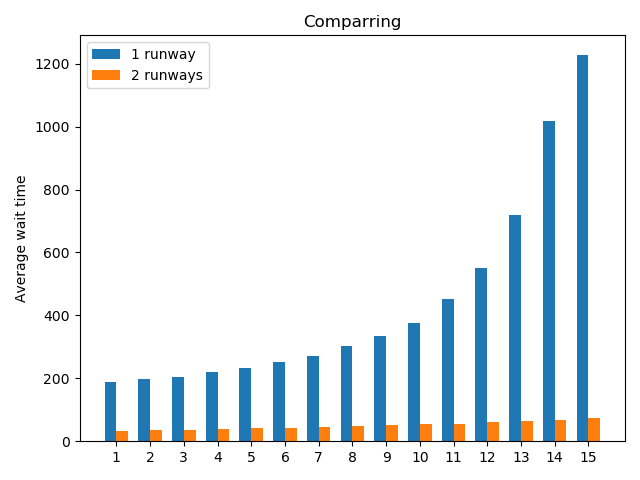
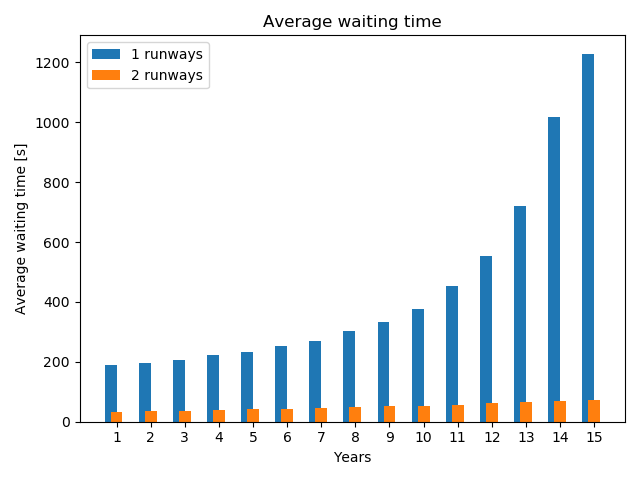
Updated project

diff --git a/incl/app/programs.tex b/incl/app/programs.tex
@@ -1,0 +1,298 @@
+\chapter{Programmer}
+I dette appendiks er alle prgrammer der er blevet nævt i rapporten indsat som kildekode.
+Deres funktionanlitet er beskrevet kort i starten af hver afsnit.
+
+\section{arrival\_times.py}
+Dette program udregner summen af alle ankomsttider mellem flyene for en tilfædig dag det første år, ved at gøre brug af de givne data.
+
+\begin{lstlisting}[language=Python, caption={arrival\_times.py}]
+import random
+# The given data
+inter_arrival_time_num = [44, 34, 27, 22, 16, 13, 10, 8, 6, 5, 4, 3, 2, 2, 1, 1, 1, 0, 1, 0]
+
+# For each time interval, generate the inter-arrival time number amount of inter-arrival times in this interval
+inter_arrival_time = []
+for index, time in enumerate(range(0, 1200, 60)):
+    for i in range(inter_arrival_time_num[index]):
+        inter_arrival_time.append(random.randint(time, time + 59))
+# Print results - the number of airplanes (which is the length of inter_arrival_times, and the sum of inter-arrival times in hours
+print(f"Numnber of airplanes: {len(inter_arrival_time)}")
+print(f"Hours in total: {round(sum(inter_arrival_time) / 3600.0, 2)}")
+\end{lstlisting}
+
+\section{arrival\_times\_mean.py}
+Dette program gentager funktionaliteten fra \code{arrival\_times.py} mange gange, og printer gennemsnittet.
+
+\begin{lstlisting}[language=Python, caption={arrival\_times\_mean.py}]
+import random
+repetitions = 1000
+
+# From arrival_times.py:
+def arrival_times():
+    inter_arrival_time_num = [44, 34, 27, 22, 16, 13, 10, 8, 6, 5, 4, 3, 2, 2, 1, 1, 1, 0, 1, 0]
+    inter_arrival_time = []
+    for index, time in enumerate(range(0, 1199, 60)):
+        for i in range(inter_arrival_time_num[index]):
+            inter_arrival_time.append(random.randint(time, time + 59))
+    return sum(inter_arrival_time)
+
+# Calculate the mean after repeating the program many times
+mean = 0
+for r in range(repetitions):
+    mean += arrival_times()
+mean /= float(repetitions)
+# Print the mean
+print(f"Average hours in total: {round(mean / 3600.0, 3)}")
+\end{lstlisting}
+
+\section{plot\_inter\_arrival\_time\_model.py}
+Dette program gentager mange gange at bruge modellen at generere ankomsttider, udregne "inter-arrival times" og optælle hyppigheden i de givne intervaller, og tager da gennemsnittet af hyppighederne.
+Desse gennemsnit bliver til slut plottet.
+
+\begin{lstlisting}[language=Python, caption={plot\_inter\_arrival\_time\_model.py}]
+import random
+import numpy as np
+import matplotlib.pyplot as plt
+
+# Generate a list of the number of inter-arrival times
+def generate_inter_arrival_times_num(planes):
+    # Genreate arrival times using the model
+    mylist = [random.randint(0, 13 * 3600) for i in range(planes)]
+    mylist.sort()
+    # Generate the inter-arrival times
+    inter_times = [mylist[0]]
+    for index in range(len(mylist[1:])):
+        inter_times.append(mylist[index + 1] - mylist[index])
+    # Calculate the number of inter-arrival times in the specific intervals
+    inter_arrival_times_num = []
+    for t in range(0, 1200, 60):
+        number = 0
+        for time in inter_times:
+            if t <= time and time < t + 59:
+                number += 1
+        inter_arrival_times_num.append(number)
+    # Return the list of the number of inter-arrival times
+    return inter_arrival_times_num
+
+# Take the mean of a list generated with a function (with one argument) when run many times
+def mean_list(repeat, function, arg):
+    mean = [0 for i in range(len(function(arg)))]
+    for i in range(repeat):
+        mean = map(lambda x, y: x + y, mean, function(arg)) 
+    return [x/float(repeat) for x in mean]
+
+# Generate the mean of the number of inter-arrival times
+repetitions = 20000
+planes = 200
+performance = mean_list(repetitions, generate_inter_arrival_times_num, planes)
+print(performance)
+
+# Plot the data in a bar graph
+labels = [str(start) + "-" + str(start + 59) for start in range(0, 1200, 60)]
+objects = tuple(labels)
+y_pos = np.arange(len(objects))
+plt.bar(y_pos, performance, align='center', alpha=1)
+plt.xticks(y_pos, objects, rotation=90)
+plt.ylabel('Number of planes')
+plt.xlabel('Inter-arrival time [seconds]')
+plt.title(f'Number of inter-arrival times in the given intervals')
+plt.tight_layout()
+plt.savefig(f'mean_number_of_inter_arrival_times_{repetitions}_{planes}.png')
+\end{lstlisting}
+
+\section{airplanes.py}
+Dette program er det centrale program i projektet.
+Funktionaliteten gennemsås i Kapitel \ref{chap:program}.
+Programmet kører mange køsimuleringer og udregner den genenmsnittelige ventetid per fly.
+
+\begin{lstlisting}[language=Python, caption={airplanes.py}]
+import random
+import numpy as np
+import matplotlib.pyplot as plt
+
+# Genreate a list of landing durations
+def generate_landing_durations(planes):
+    data = [0, 16, 33, 61, 41, 25, 10, 8, 6]
+    min_ = 0
+    max_ = 30
+    model = [[0.0, 0, 30]]
+    for index, num in enumerate(data[1:]):
+        percent = float(num) / planes + model[index][0]
+        min_ = 1 + max_
+        max_ = 29 + min_
+        model.append([percent, min_, max_])
+    percent_list = [random.random() for i in range(planes)]
+    landing_durations = []
+    for percent in percent_list:
+        for index in range(len(model) - 1):
+            if model[index][0] < percent and percent <= model[index + 1][0]:
+                landing_durations.append(random.randint(model[index + 1][1], model[index + 1][2]))
+                break
+    return landing_durations
+
+# Generate a list of arrival times
+def generate_arrival_times(planes):
+    arrival_times = [random.randint(0, 13 * 3600) for i in range(planes)]
+    arrival_times.sort()
+    return arrival_times
+
+# Generate schedule that contains a list of lists.
+def generate_schedule(planes):
+    arrival_times = generate_arrival_times(planes)
+    landing_durations = generate_landing_durations(planes)
+    return list(zip(arrival_times, landing_durations))
+
+def next_lane_event(lanes):
+    next_lane = max(lanes)
+    for lane in lanes:
+        if lane < next_lane and lane != -1:
+            next_lane = lane
+    return next_lane
+
+# Run simulation for one day
+def sim_day(runways, schedule):
+    t = 0
+    cur_flight = 0
+    lanes = [-1 for runway in range(runways)]
+    queue = []
+    wait = 0.0
+    while(cur_flight < len(schedule) or queue or max(lanes) > -1):
+        if cur_flight >= len(schedule):
+            next_arrival = 100000000
+        else:
+            next_arrival = schedule[cur_flight][0]
+        if next_arrival <= next_lane_event(lanes) or (next_lane_event(lanes) == -1 and cur_flight < len(schedule)):
+            t = next_arrival
+            for index, lane in enumerate(lanes):
+                if lane == -1:
+                    lanes[index] = t + schedule[cur_flight][1]
+                    break
+            if -1 != min(lanes):
+                queue.append(schedule[cur_flight])
+            cur_flight += 1
+        if next_lane_event(lanes) > -1:
+            for index, lane in enumerate(lanes):
+                if lane < next_arrival and lane == next_lane_event(lanes):
+                    t = lane
+                    if queue:
+                        wait += t - queue[0][0]
+                        lanes[index] = t + queue[0][1]
+                        queue.pop(0)
+                    else:
+                        lanes[index] = -1
+    return wait/len(schedule)
+
+# Run one day's simulationen sim_per_year times
+def sim_year(runways, planes, sim_per_year):
+    sum_of_avg_wait = 0
+    for sim in range(sim_per_year):
+        schedule = generate_schedule(planes)
+        sum_of_avg_wait += sim_day(runways, schedule)
+    return sum_of_avg_wait/float(sim_per_year)
+
+# Run the simulation and calculate number of planes each day in the year
+def simulate(runways, years, sim_per_year):
+    planes = 200
+    avg_wait = []
+    for i in range(years):
+        avg_wait.append(sim_year(runways, round(planes), sim_per_year))
+        planes *= 1.05
+    return avg_wait
+
+# Write to file
+def write_results_to_file(avg_wait, years):
+    avg_wait = [round(avg, 2) for avg in avg_wait]
+    results = ", ".join(map(str, avg_wait))
+    years_str = ", ".join(map(str, range(1, years + 1)))
+    f = open(f"{years}Y{runways}K.txt", "w")
+    f.write(years_str + "\n" + results + "\n")
+    f.close()
+
+
+# Run the simulation and write the results to a file
+if __name__ == "__main__":
+    years = 15
+    runways = 2
+    avg_wait = simulate(runways, years, 300)
+    write_results_to_file(avg_wait, years)
+\end{lstlisting}
+
+\section{plot.py}
+
+\begin{lstlisting}[language=Python, caption={plot.py}]
+import argparse
+import matplotlib
+import matplotlib.pyplot as plt
+import numpy as np
+import os
+import sys
+
+def close_files():
+    for f in args.file:
+        f.close()
+
+# Turn a line in a file into a list of the type of data the input function returns
+def read_line(f, line_num, function):
+    f.seek(0)
+    lines = f.readlines()
+    try:
+        mylist = list(map(function, lines[line_num].strip().split(', ')))
+    except ValueError:
+        print("Error: Make sure the files were generated using airplanes.py.")
+        close_files()
+        sys.exit()
+    return mylist
+
+# Get data from files
+def get_data_from_files():
+    data = [[] for i in range(len(args.file))]
+    num = [] # number of runways
+    for index, f in enumerate(args.file):
+        # Turn line into a list
+        data[index].append(read_line(f, 0, str))
+        data[index].append(read_line(f, 1, float))
+        # Get the number of runways as str from the filename
+        name = os.path.basename(f.name)
+        i = name.find("K")
+        num.append(name[i - 1])
+    close_files()
+    return data, num
+
+# Get the labels for the x-axis and check if the files match
+def get_labels(data):
+    labels = data[0][0]
+    for d in data[1:]:
+        if d[0] != labels:
+            print("Error: The files' labels are not compatible. Make sure the number of years in each file is the same.")
+            sys.exit()
+    return labels
+
+# Plot the data
+def plot(data, labels, num_of_runways):
+    x = np.arange(len(labels))
+    width = 0.35
+    
+    fig, ax = plt.subplots()
+    rects = []
+    for index, d in enumerate(data):
+        rects.append(ax.bar((x - width/2) + index*width/len(data), d[1], width, label=(num_of_runways[index] + " runways")))
+    
+    ax.set_ylabel('Average waiting time [s]')
+    ax.set_title('Average waiting time')
+    ax.set_xticks(x)
+    ax.set_xticklabels(labels)
+    ax.set_xlabel('Years')
+    ax.legend()
+    fig.tight_layout()
+    plt.savefig(f"plot_{data[0][0][-1]}Y_{str(len(data))}files")
+
+# Main function
+if __name__ == "__main__":
+    parser = argparse.ArgumentParser(description='Plot data from files in a bar graph')
+    parser.add_argument('file', type=argparse.FileType('r'), nargs='+')
+    args = parser.parse_args()
+
+    data, num_of_runways = get_data_from_files()
+    labels = get_labels(data)
+    plot(data, labels, num_of_runways)
+\end{lstlisting}

diff --git a/fig/tikz/queue_flowchart.tex b/fig/tikz/queue_flowchart.tex
@@ -1,7 +1,7 @@
-\tikzstyle{startstop} = [rectangle, rounded corners, minimum width=3cm, minimum height=1cm,text centered, draw=black, fill=red!30]
-\tikzstyle{io} = [trapezium, trapezium left angle=70, trapezium right angle=110, minimum width=3cm, minimum height=1cm, text centered, text width=4cm, draw=black, fill=blue!30]
-\tikzstyle{process} = [rectangle, minimum width=4cm, minimum height=1cm, text centered, text width=4cm, draw=black, fill=orange!30]
-\tikzstyle{decision} = [diamond, width=2cm, height=1cm, text centered, text width=2cm, draw=black, fill=green!30]
+\tikzstyle{startstop} = [rectangle, rounded corners, minimum width=3cm, minimum height=1cm,text centered, draw=black, fill=AAUgrey3]
+\tikzstyle{io} = [trapezium, trapezium left angle=70, trapezium right angle=110, minimum width=3cm, minimum height=1cm, text centered, text width=4cm, draw=black, fill=AAUteal!30]
+\tikzstyle{process} = [rectangle, minimum width=4cm, minimum height=1cm, text centered, text width=4cm, draw=black, fill=AAUgrey4]
+\tikzstyle{decision} = [diamond, width=2cm, height=1cm, text centered, text width=2cm, draw=black, fill=AAUblue2!30]
 \tikzstyle{arrow} = [thick,->,>=stealth]
 
 \begin{tikzpicture}[node distance=2cm]
@@ -23,8 +23,8 @@
 	\node (stop) [startstop, below of=out1] {Stop};
 
 	\node (dec4an) [above of=dec4, yshift=1cm];
-	\node (dec1ana) [below of=dec4, yshift=-2cm, xshift=-4cm];
-	\node (out1an) [above of=out1, xshift=18cm, yshift=-0.7cm];
+	\node (dec1ana) [below of=dec4, yshift=-2cm, xshift=-2.6cm];
+	\node (out1an) [above of=out1, xshift=17.5cm, yshift=-0.7cm];
 	\node (nej1) [below of=dec4, anchor=east, yshift=-1cm] {Nej};
 	\node (ja1) [right of=dec1, anchor=south] {Ja};
 	

diff --git a/master.tex b/master.tex
@@ -5,22 +5,20 @@
 
 % Dokumenttypen 'book' er valgt pga. dens mange fleksible indstillinger
 % Se https://tex.stackexchange.com/a/36989/118167
-\documentclass[11pt,a4paper,twoside,openright,danish]{book}
+\documentclass[11pt,a4paper,oneside,openright,danish]{book}
 
 % Variabler, som bruges til automatisk at indsætte titel, forfattere, osv. på
 % forsiden og titelbladet.
-\def \projecttitle       {Projekttitel}
-\def \projectsubtitle    {Projektundertitel}
+\def \projecttitle       {MODSIM Miniprojekt}
+\def \projectsubtitle    {Lufthavnskøproblemet}
 \def \projecttheme       {Projekttema}
 \def \projectdegree      {Matematik}  % eller Matematik-Økonomi/Teknologi
-\def \projectperiod      {Efterårssemesteret 20XX}
-\def \projectnumber      {P1}
-\def \projectgroup       {X123}
+\def \projectperiod      {Efterårssemesteret 2019}
+\def \projectnumber      {MODSIM}
+\def \projectgroup       {C220 C}
 \def \projectauthors     {
-  Sigrid\\
-  Projektforfatter 2\\
-  Projektforfatter 3\\
-  Projektforfatter 4
+  Sigrid Schrøder Jensen\\
+  Daniel Bursac Hasanovic
   % ...
 }
 \def \projectsupervisors {
@@ -43,7 +41,7 @@
 % indholdsfortegnelsen.
 \frontmatter
 \include{incl/misc/frontpage}
-\include{incl/misc/titlepage}
+% \include{incl/misc/titlepage}
 \include{incl/misc/contents}
 
 % Dokumentets 'main matter' (hovedindhold) er der, hvor det meste indhold skal
@@ -69,6 +67,7 @@
   % \include{incl/app/appendix1}
   % \include{incl/app/appendix2}
   % ..
+	\include{incl/app/programs}
 \end{appendices}
 
 % Dokumentets 'back matter' er til ekstra ting som f.eks. litteraturlisten.

diff --git a/incl/pre/conf.tex b/incl/pre/conf.tex
@@ -19,9 +19,9 @@
 % Sidehoved og sidefod ---------------------------------------------------------
 % http://mirrors.dotsrc.org/ctan/macros/latex/contrib/fancyhdr/fancyhdr.pdf
 \fancyhead{}                            % ryd standardindhold
-\fancyhead[LE,RO]{Group \projectgroup}  % venstre på lige sider, højre på ulige
-\fancyhead[RE]{\leftmark}               % højre på ulige sider
-\fancyhead[LO]{\rightmark}              % venstre på ulige sider
+\fancyhead[R]{Group \projectgroup}      % venstre på lige sider, højre på ulige
+% \fancyhead[RE]{\leftmark}             % højre på ulige sider
+\fancyhead[L]{\leftmark}                % venstre på ulige sider
 \fancyfoot{}                            % ryd standardindhold
 \fancyfoot[CE,CO]{\thepage}             % centrerede sidetal
 \pagestyle{fancy}                       % aktiver fancy stil

diff --git a/incl/misc/contents.tex b/incl/misc/contents.tex
@@ -16,10 +16,10 @@
 \clearpage
 
 % Placer oversigtslisterne på efterfølgende sider
-\let\clearpage\relax
-\listoffigures
-\listoftables
-\listofalgorithms
-\lstlistoflistings
+% \let\clearpage\relax
+% \listoffigures
+% \listoftables
+% \listofalgorithms
+% \lstlistoflistings
 
 \endgroup
